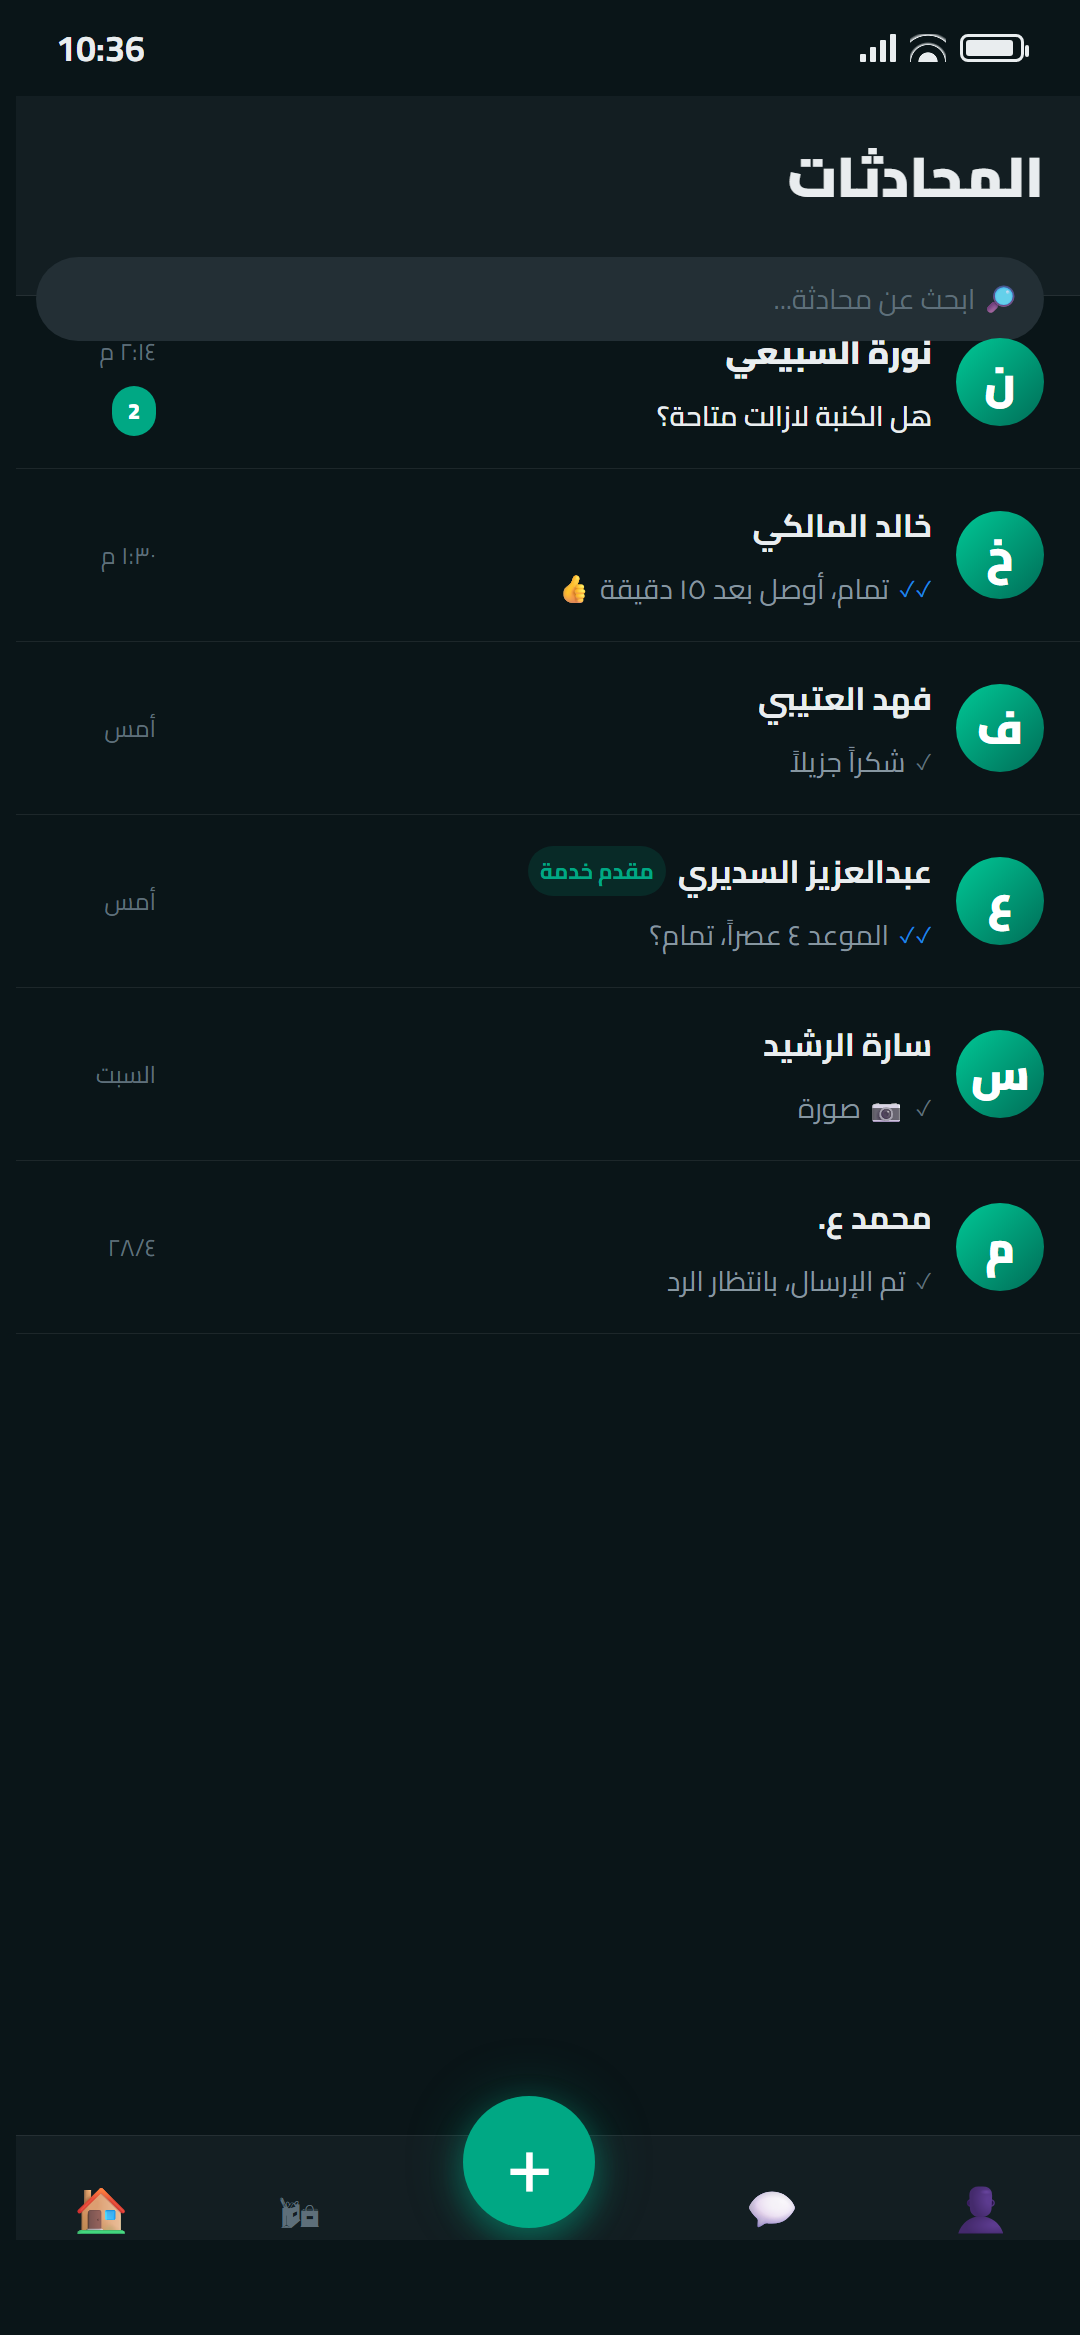
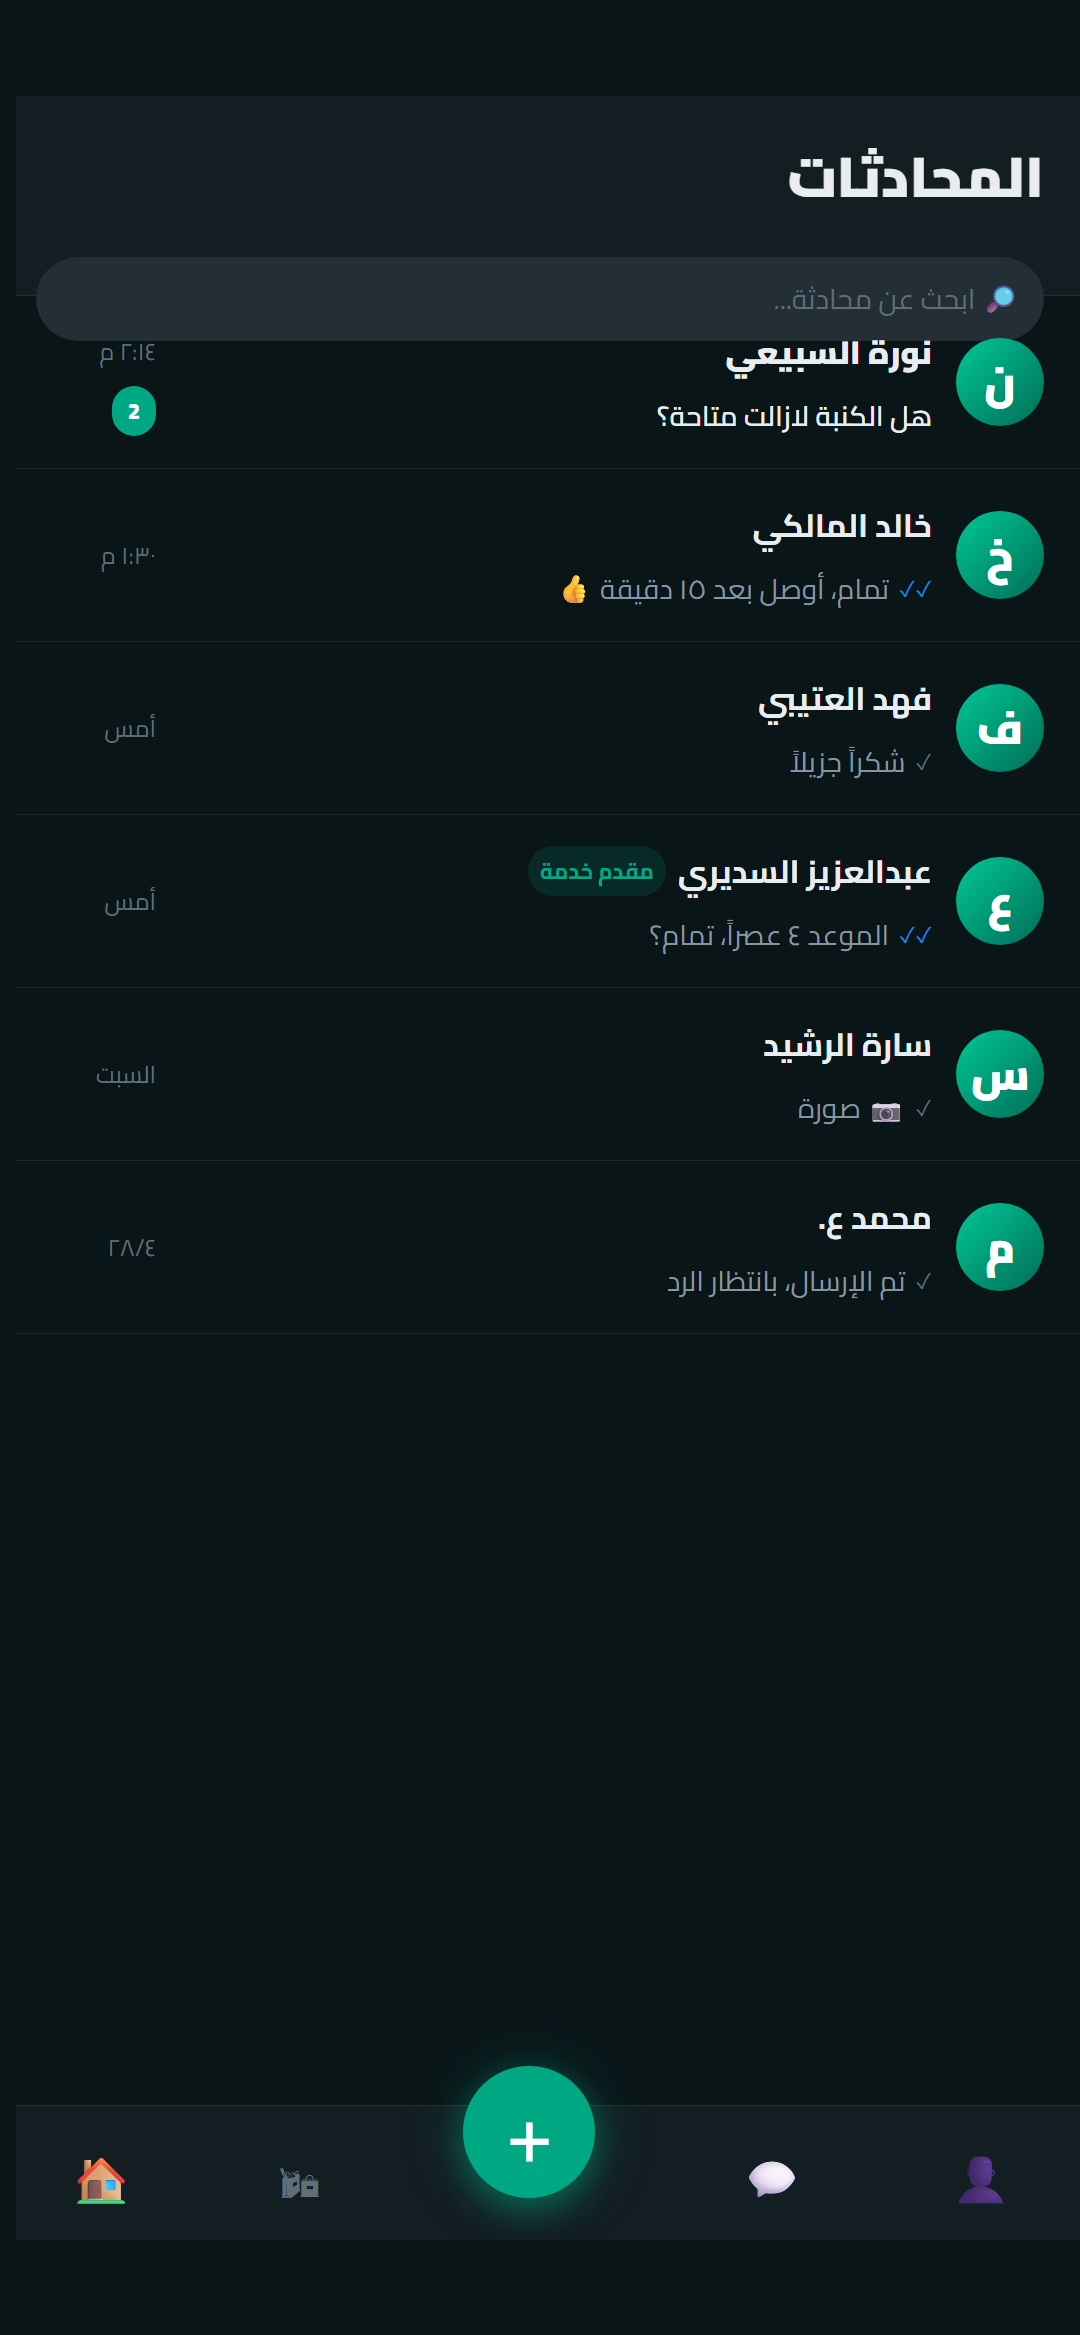
Screenshots: fix notch/home-indicator overlap + add light variants
- Removed the in-mockup iOS status bar (it sat under the phone
  frame's notch) and lifted the in-app bottom nav 30px from the
  bottom edge so the home-indicator bar clears it.
- Added light-mode renders alongside the dark ones; PhoneMockup
  now serves the right variant based on the website theme.

diff --git a/src/components/PhoneMockup.tsx b/src/components/PhoneMockup.tsx
@@ -1,5 +1,18 @@
-/** Clean phone frame that wraps a real screenshot image */
+/**
+ * Phone frame that wraps a real screenshot image.
+ *
+ * `src` is the dark-mode screenshot (e.g. /screenshots/feed.png). We
+ * derive the light-mode path by inserting `-light` before the extension
+ * (/screenshots/feed-light.png) and swap between the two using
+ * Tailwind's `dark:` variant so the mockup matches the website's theme.
+ *
+ * The screenshots leave a 96px clear band at the top (where this
+ * component's notch sits) and lift the in-app bottom nav 30px from the
+ * bottom (where the home-indicator bar sits) so neither piece of the
+ * frame overlaps the screenshot's chrome.
+ */
 export default function PhoneFrame({ src, label }: { src: string; label: string }) {
+  const lightSrc = src.replace(/(\.[^./]+)$/, '-light$1')
   return (
     <div className="flex flex-col items-center gap-3">
       <div className="relative w-full max-w-[200px] mx-auto group">
@@ -10,11 +23,19 @@ export default function PhoneFrame({ src, label }: { src: string; label: string 
           {/* Notch */}
           <div className="absolute top-0 left-1/2 -translate-x-1/2 w-24 h-6 bg-gray-900 rounded-b-2xl z-10" />
           {/* Screen */}
-          <div className="rounded-[25px] overflow-hidden bg-white">
+          <div className="rounded-[25px] overflow-hidden bg-white relative">
+            {/* Light variant — visible by default, hidden in dark mode */}
+            <img
+              src={lightSrc}
+              alt={label}
+              className="w-full h-auto block dark:hidden"
+              loading="lazy"
+            />
+            {/* Dark variant — hidden by default, visible in dark mode */}
             <img
               src={src}
               alt={label}
-              className="w-full h-auto block"
+              className="w-full h-auto hidden dark:block"
               loading="lazy"
             />
           </div>
